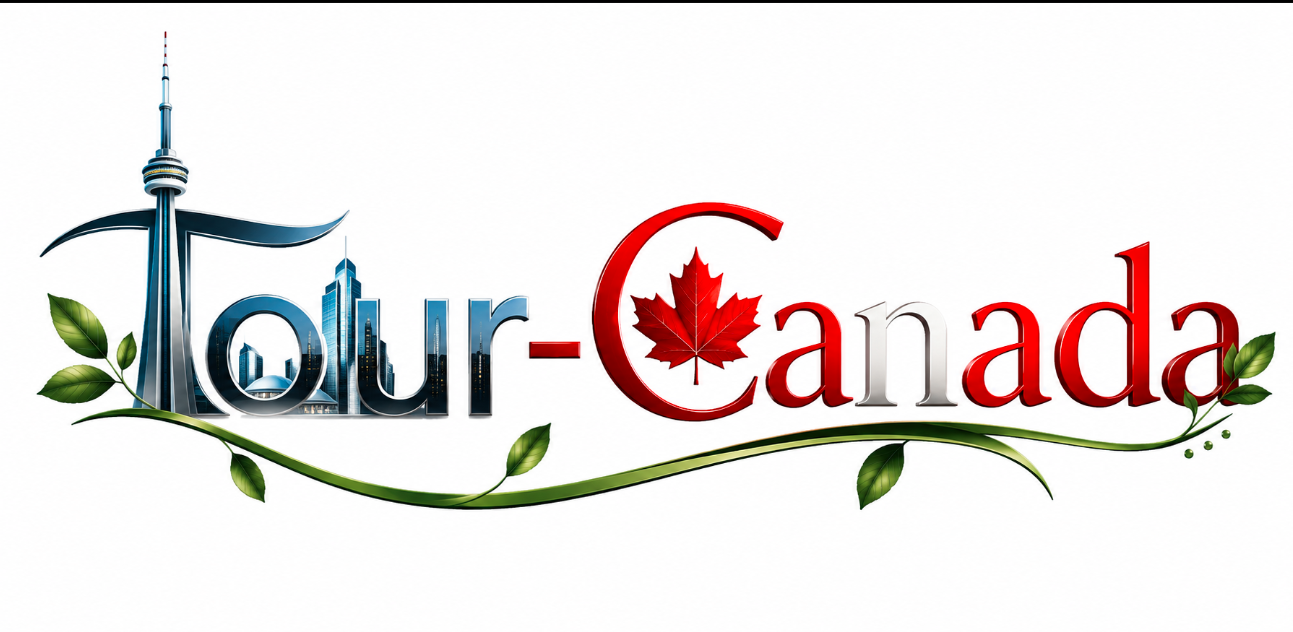
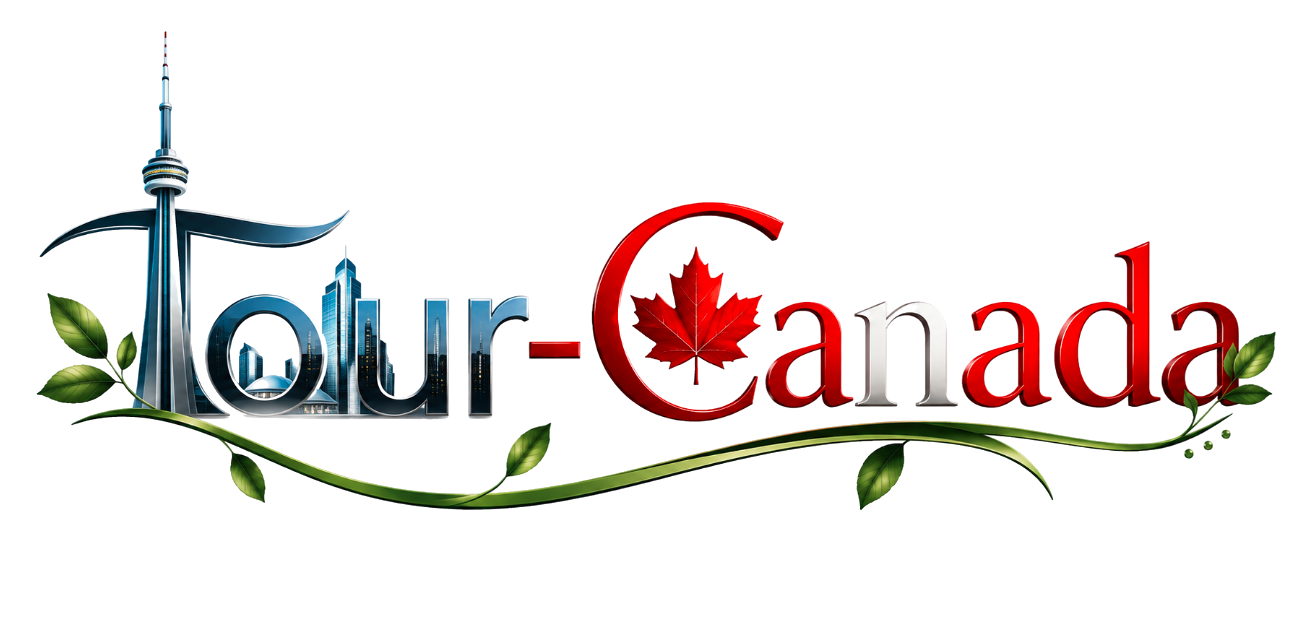
Merge remote-tracking branch 'origin/master'
# Conflicts:
#	.idea/workspace.xml

Changed region(s): [[0.0, 0.0, 1.0, 0.0301]]

diff --git a/Ontario/YorkRegion/Homepage/York Region.html b/Ontario/YorkRegion/Homepage/York Region.html
@@ -1,6 +1,7 @@
 <!DOCTYPE html>
 <html lang="en">
 <head>
+    <meta name="viewport" content="width=device-width, initial-scale=1.0">
     <meta charset="UTF-8">
     <title>York Region</title>
     <link rel="stylesheet" href="../../../Layout/css.css">

diff --git a/Ontario/Halton/Homepage/Halton.html b/Ontario/Halton/Homepage/Halton.html
@@ -1,6 +1,7 @@
 <!DOCTYPE html>
 <html lang="en">
 <head>
+    <meta name="viewport" content="width=device-width, initial-scale=1.0">
     <meta charset="UTF-8">
     <title>Halton</title>
     <link rel="stylesheet" href="../../../Layout/css.css">

diff --git a/Ontario/Nigara/Homepage/NigaraHomepage.html b/Ontario/Nigara/Homepage/NigaraHomepage.html
@@ -1,6 +1,7 @@
 <!DOCTYPE html>
 <html lang="en">
 <head>
+    <meta name="viewport" content="width=device-width, initial-scale=1.0">
     <meta charset="UTF-8">
     <title>Title</title>
     <link rel="stylesheet" href="../../../Layout/css.css">

diff --git a/Layout/css.css b/Layout/css.css
@@ -27,8 +27,8 @@ body:has(.search-container) {
 .logo {
     display: block;
     margin: 20px auto 0 auto;
-    width: 500px;
-    max-width: 85%;
+    width: 700px;
+    max-width: 100%;
     height: auto;
 }
 
